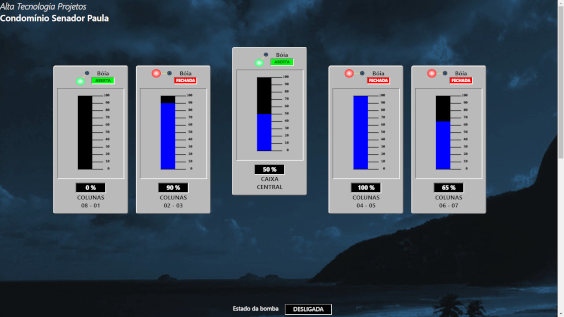
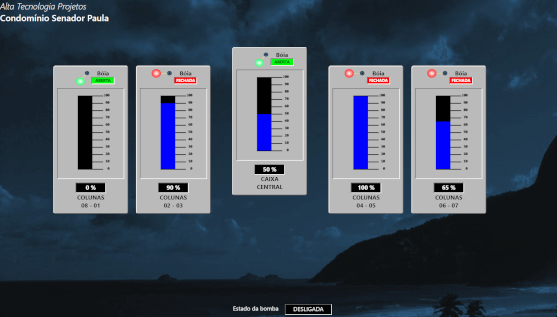
Small modifs.

diff --git a/src/menubar.css b/src/menubar.css
@@ -11,11 +11,11 @@
     border-top:1.5px solid white;
     border-bottom:1px solid black;
     font-size:12pt;
-    background-color:#012030;
-    background: -webkit-linear-gradient(#003a3f,#012030); /* For Safari 5.1 to 6.0 */
-    background: -o-linear-gradient(#003a3f, #012030); /* For Opera 11.1 to 12.0 */
-    background: -moz-linear-gradient(#003a3f, #012030); /* For Firefox 3.6 to 15 */
-    background: linear-gradient(#003a3f, #012030); /* Standard syntax (must be last) */    
+    background-color:#2c2c2c;
+    background: -webkit-linear-gradient(#585858,#2c2c2c); /* For Safari 5.1 to 6.0 */
+    background: -o-linear-gradient(#585858, #2c2c2c); /* For Opera 11.1 to 12.0 */
+    background: -moz-linear-gradient(#585858, #2c2c2c); /* For Firefox 3.6 to 15 */
+    background: linear-gradient(#585858, #2c2c2c); /* Standard syntax (must be last) */    
 
 
 /*    

diff --git a/src/app.css b/src/app.css
@@ -1,7 +1,7 @@
 .App {
-    height:190vh;
+    height:125vh;
     text-align: center;
-    background-image: url("vscode.react.low.color.almost.gray.png");
+/*    background-image: url("vscode.react.low.color.almost.gray.png"); */
     background-size: cover;
     background-repeat:no-repeat;
     background-attachment: fixed;

diff --git a/src/home.css b/src/home.css
@@ -17,7 +17,7 @@
 }
 
 img{
-  width:110%;
+  width:100%;
   height:fit-content;
   padding-left:-1em;
   border-bottom:1px solid white;
